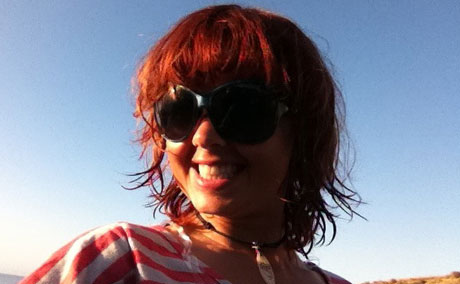
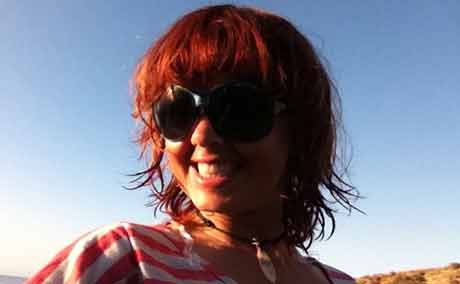
retina images
gist: 5500060

Changed region(s): [[0.0, 0.0, 1.0, 1.0], [0.5478, 0.4507, 0.6087, 0.507]]

diff --git a/index.html b/index.html
@@ -89,7 +89,7 @@
 						<h5>HTML eCard</h5>
 					</div>
 					
-					<img src="images/projects/rolling_stones_ecard.jpg" alt="Rolling Stones eCard" class="thumbnailImage" />
+					<img src="images/projects/rolling_stones.gif" alt="Rolling Stones eCard" class="thumbnailImage" />
 				</div>
 				
 				<div class="projectInfo">
@@ -227,6 +227,22 @@
 </div><!-- container -->
 
 <script type="text/javascript">
+
+// Set pixelRatio to 1 if the browser doesn't offer it up.
+var pixelRatio = !!window.devicePixelRatio ? window.devicePixelRatio : 1;
+ 
+// Rather than waiting for document ready, where the images
+// have already loaded, we'll jump in as soon as possible.
+$(window).on("load", function() {
+    if (pixelRatio > 1) {
+        $('img').each(function() {
+ 
+            // Very naive replacement that assumes no dots in file names.
+            $(this).attr('src', $(this).attr('src').replace(".","@2x."));
+        });
+    }
+});
+
 
   var _gaq = _gaq || [];
   _gaq.push(['_setAccount', 'UA-11462696-2']);

diff --git a/readme.md b/readme.md
@@ -9,7 +9,6 @@ The portfolio of **designer** / **developer** and aspiring **motionographer**: *
 To Do
 -----
 + options index
-+ retinajs
 + style tiles
 + change fonts
 + use less
